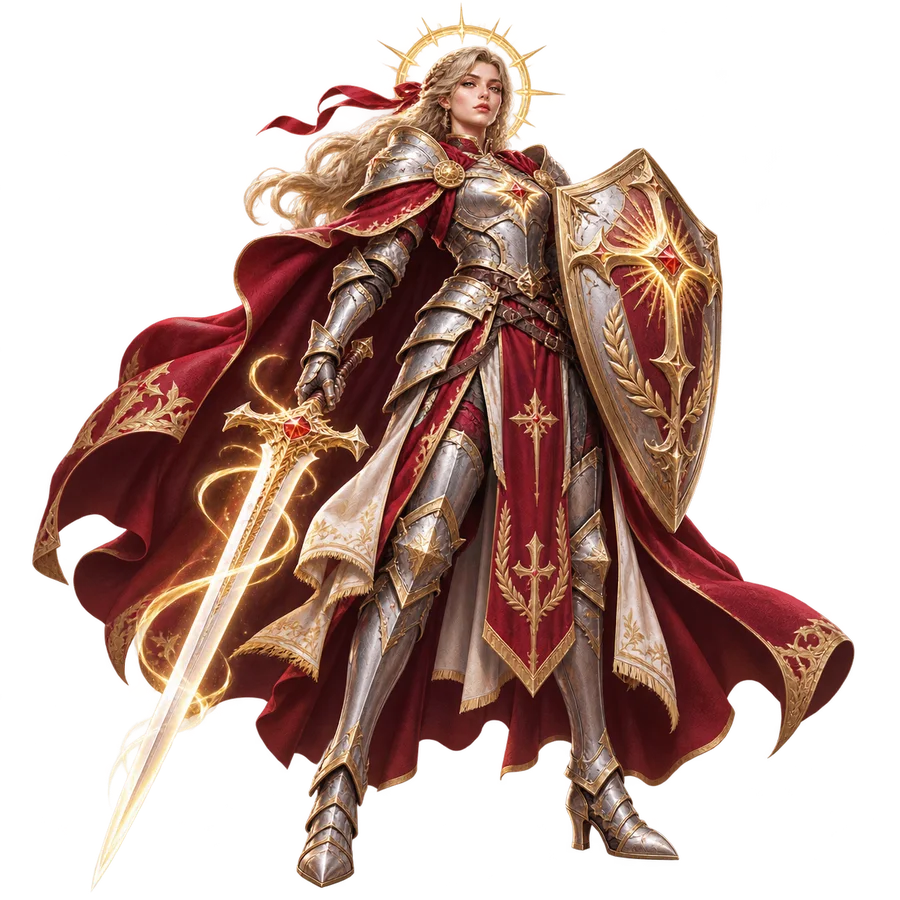
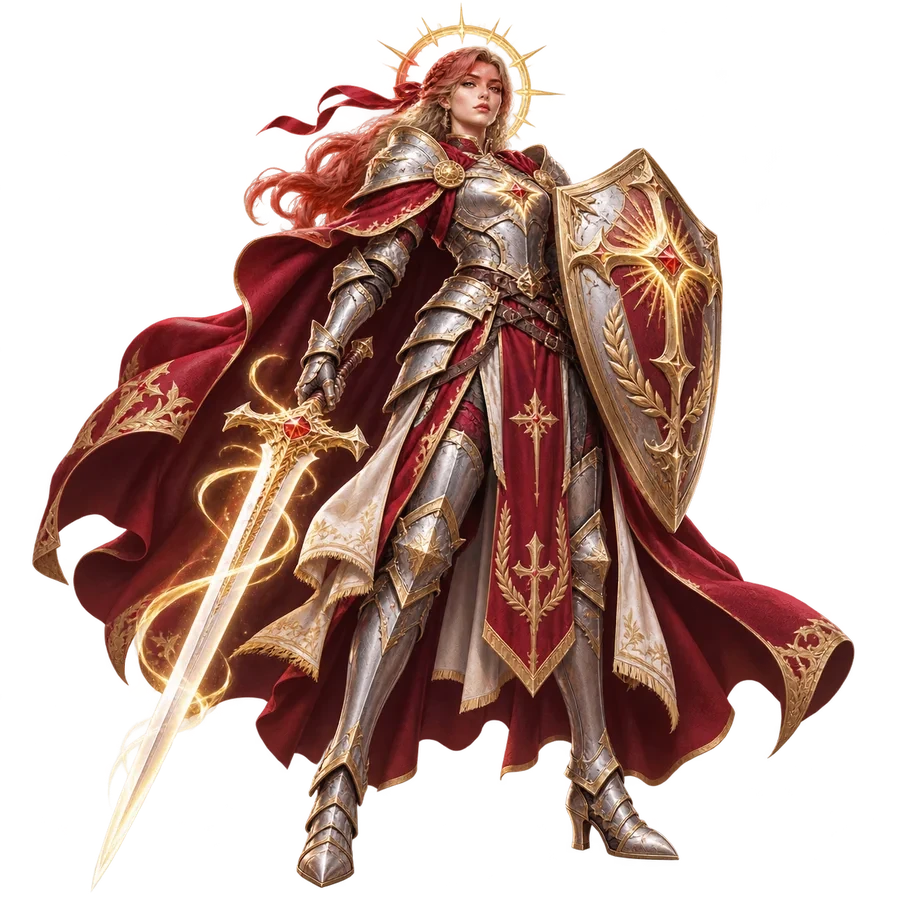
art(es2): align Crimson Paladin portrait hair with authored red-haired motion identity
Retain 900px 3x transparency and helmet/shield/face details. Document the
one-facing action strip versus remaining seven legacy directional views,
and keep the visual QA gate explicit rather than declaring full eight-way art.

Changed region(s): [[0.2489, 0.1244, 0.4356, 0.28], [0.4356, 0.0311, 0.56, 0.1244], [0.56, 0.0933, 0.5911, 0.1244]]

diff --git a/src/game/content/heroes/INTEGRATION.md b/src/game/content/heroes/INTEGRATION.md
@@ -24,11 +24,11 @@
 
 ## Remaining art/product work
 
-**Playability:** New hero stats, companion pulses, real damage/defense, skills and selection are routed through the actual engine. Both NEW HEROES cards and the live upper-left Combat HUD crop the same authored 8-direction WebP atlas that the selected hero uses during gameplay. The former SVG illustrations are retained only as explicit image-load fallbacks. Original knight, ranger and wizard portraits and Canvas rig stay untouched.
+**Playability:** NEW HEROES cards and the live upper-left Combat HUD now share each selected hero's real 900×900 transparent 3× WebP portrait through the single HeroPortrait component. The old SVG is an explicit image-error fallback only; the original three heroes and their character rigs are untouched. Run/cast/attack previews use each hero's distinct 8×448px production action strip, and existing active ability icons have been replaced with matching 3× WebPs.
 
-**Visual scale:** The authored sprite occupies only about 50 of each 128-pixel atlas cell's vertical pixels. The 8-direction live Canvas path now enlarges the visible silhouette by 2.5× relative to its previous atlas-cell rendering and anchors the feet consistently to the legacy three heroes' ground point. Crop rectangles remain confined to the authored 128×128 cell, and collision/gameplay geometry does not change.
+**Visual scale:** The existing eight-direction sprite occupies only about 50 of each 128-pixel atlas cell's vertical pixels, while the newly rendered right-facing strip uses a separate 448px cell and 1.3× width / 1.25× height Canvas destination scaling. The 8-direction live Canvas path now enlarges the visible silhouette by 2.5× relative to its previous atlas-cell rendering and anchors the feet consistently to the legacy three heroes' ground point. Crop rectangles remain confined to the authored 128×128 cell, and collision/gameplay geometry does not change.
 
-**Remaining visual limitation:** The atlas supplies eight facings and only four distinct poses (idle, run, attack and cast); hurt, death and victory deliberately retain the original knight/wizard animation fallback. The source atlases still need visual contamination/bleed QA and final animation continuity approval; this change does **not** claim that extra motion frames or finished individual summoned-character animation exist. Existing three heroes' animation atlases remain unchanged.
+**Remaining visual limitation:** The newly committed 3× action strips genuinely contain eight sequential 448px right-facing run/attack/cast cells, not eight different facing directions. In live gameplay, the new strip is drawn for **right/east-facing** motion or attack; the existing correct-facing eight-direction atlas is retained for the other seven octants, and for reduced-motion or undecoded action images. This does **not** qualify as full new 3× eight-direction combat animation or as approved portrait-to-motion identity continuity. The artwork must be redrawn for remaining directions and visually signed off before declaring complete. The original three heroes' animation atlases remain unchanged.
 
 **Persistence limitation:** Profile v2 still records legacy fallback in `heroesPlayed`, while live `heroId` and `RunStats.specializationId` are correct. Do not claim v3 save migration or specialized permanent mastery from this branch.
 
